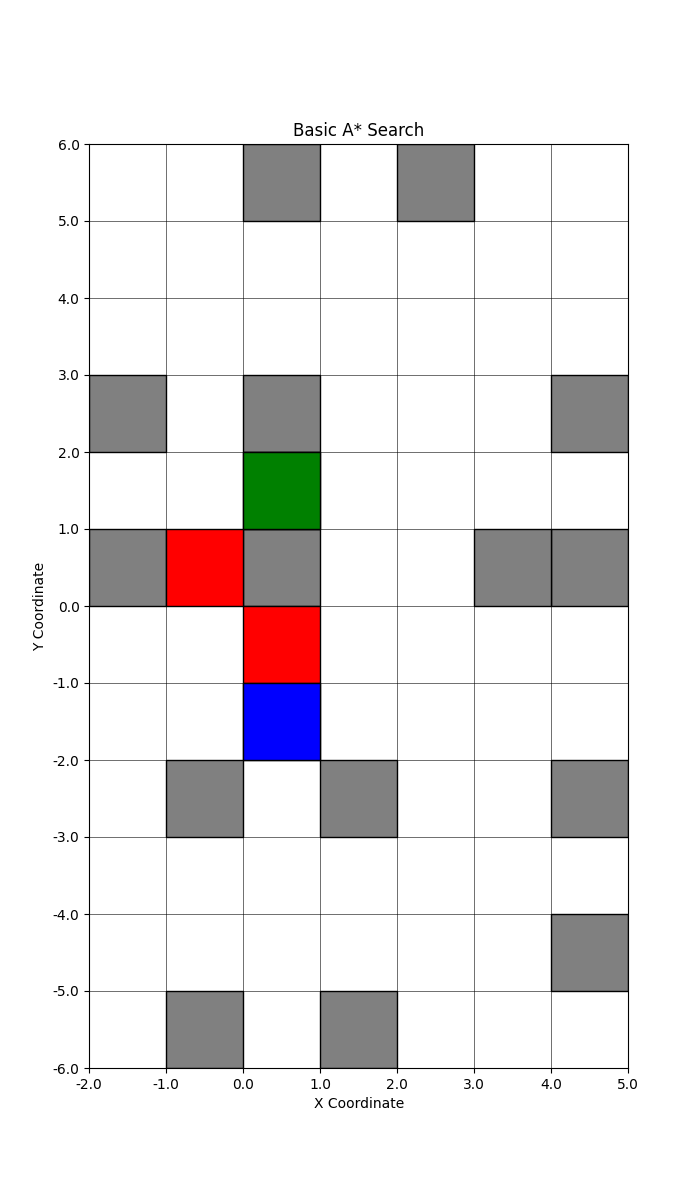
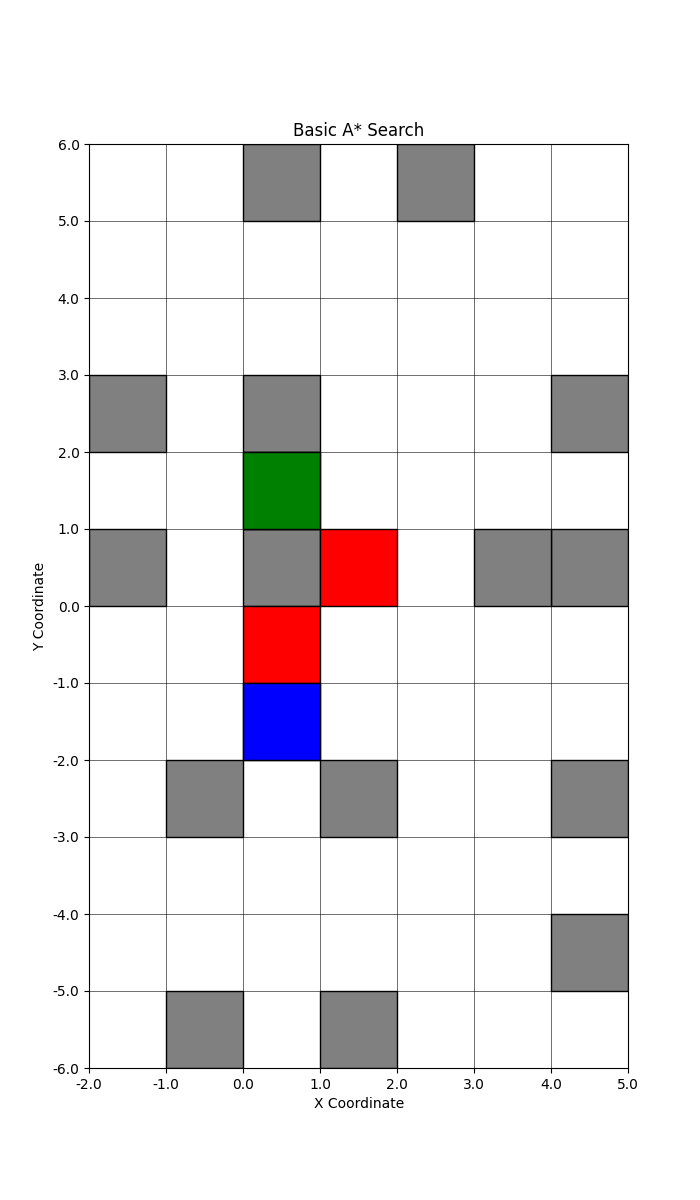
Finding a fix for q6

Changed region(s): [[0.45, 0.4317, 0.57, 0.5242], [0.24, 0.4317, 0.36, 0.5242]]

diff --git a/search.py b/search.py
@@ -13,9 +13,6 @@ def round_to_res(n, res):
     """
     Given a number or np.ndarray of numbers, round to a given resolution.
     """
-    # idx = np.round(n / res).astype(int)
-    # # Convert back to actual value
-    # return idx * res
     if isinstance(n, tuple): n_arr = np.array(n)
     else: n_arr = n
     return np.round(np.floor(n_arr / res)*res, 1)   # TODO: Better way of eliminating floating point
@@ -39,32 +36,53 @@ class Node():
         self.gcost = np.inf
         self.hcost = np.inf
 
+    def round_neighbor_to_res(self, n, res):
+        """
+        Rounding for neighbors should round to closest resolution interval
+        instead of rounding down.
+        """
+        return np.round(np.round(n / res)*res, 1)
+
     def get_neighbor_coords(self, bounds, res):
         neighbors = []
-        neighbors.append(self.position + np.array([0.0, res]))    # Top
-        neighbors.append(self.position + np.array([res, res]))    # Top right
-        neighbors.append(self.position + np.array([res, 0.0]))    # Right
-        neighbors.append(self.position + np.array([res, -res]))   # Bottom right
-        neighbors.append(self.position + np.array([0.0, -res]))   # Bottom
-        neighbors.append(self.position + np.array([-res, -res]))  # Bottom left
-        neighbors.append(self.position + np.array([-res, 0.0]))   # Left
-        neighbors.append(self.position + np.array([-res, res]))   # Top left
+        # neighbors.append(self.position + np.array([0.0, res]))    # Top
+        # neighbors.append(self.position + np.array([res, res]))    # Top right
+        # neighbors.append(self.position + np.array([res, 0.0]))    # Right
+        # neighbors.append(self.position + np.array([res, -res]))   # Bottom right
+        # neighbors.append(self.position + np.array([0.0, -res]))   # Bottom
+        # neighbors.append(self.position + np.array([-res, -res]))  # Bottom left
+        # neighbors.append(self.position + np.array([-res, 0.0]))   # Left
+        # neighbors.append(self.position + np.array([-res, res]))   # Top left
         
-        # Check bounds
-        neighbors_filtered = []
-        for n in neighbors:
-            if n[0] >= bounds[0][0] and n[0] < bounds[0][1] and \
-               n[1] >= bounds[1][0] and n[1] < bounds[1][1]:
-                neighbors_filtered.append(round_to_res(n, res))
+        # # Check bounds
+        # neighbors_filtered = []
+        # for n in neighbors:
+        #     if n[0] >= bounds[0][0] and n[0] < bounds[0][1] and \
+        #        n[1] >= bounds[1][0] and n[1] < bounds[1][1]:
+        #         neighbors_filtered.append(round_to_res(n, res))
 
-        return neighbors_filtered
+        # Cover full immediate neighborhood
+        for dx in range(-1, 2):
+            for dy in range(-1, 2):
+                x, y = (self.position[0] + dx * res), (self.position[1] + dy * res)
+
+                neigh = self.round_neighbor_to_res(np.array([x,y]), res)
+                
+                # Skip node coords
+                if tuple(neigh) == tuple(self.position):
+                    continue
+
+                # Check bounds
+                if bounds[0][0] <= neigh[0] < bounds[0][1] and bounds[1][0] <= neigh [1] < bounds[1][1]:
+                    neighbors.append(tuple(neigh))
+
+        return neighbors
 
 
     def set_cost(self, gcost, hcost):
-        if not self.obs:
-            self.gcost = gcost
-            self.hcost = hcost
-            self.fcost = self.gcost + self.hcost
+        self.gcost = gcost
+        self.hcost = hcost
+        self.fcost = self.gcost + self.hcost
 
     # Comparison and representation
     def __eq__(self, other):    # For checking position equality
@@ -110,9 +128,9 @@ def a_star(start, goal, bounds, res, obstacles):
 
     found = False
     current = start
-    test_iter = 0
+    test_iter = 0   # DEBUG
     while open_heap:
-        test_iter += 1
+        test_iter += 1  # DEBUG
         # Get node in open set with lowest f cost
         current = heapq.heappop(open_heap)
         curr_pos = tuple(round_to_res(current.position, res))
@@ -184,13 +202,13 @@ def a_star_online(start, goal, bounds, res, obstacles):
         if not naive_path: break  # No path found
 
         # Follow naive path
-        for node in naive_path:
+        for node in naive_path[1:]: # First node in path is last node of prev path
             # If node on naive path is obstacle, add to known_obstacles and replan
             if node in obstacles:
                 known_obstacles.add(node)
                 # TODO: Check all neighbors of current for obstacles as well
                 break
-            elif node not in path:
+            else:
                 # Otherwise, continue on planned path
                 current = node
                 path.append(current)

diff --git a/questions.py b/questions.py
@@ -216,7 +216,6 @@ def q6():
     ]
     res = 0.1
 
-    # 0.3, more in each dir = 0.7m side length = 49 times area increase
     obstacles = get_obstacles(bounds, res, inflate=3)
 
     start = np.array([-2, -6])
